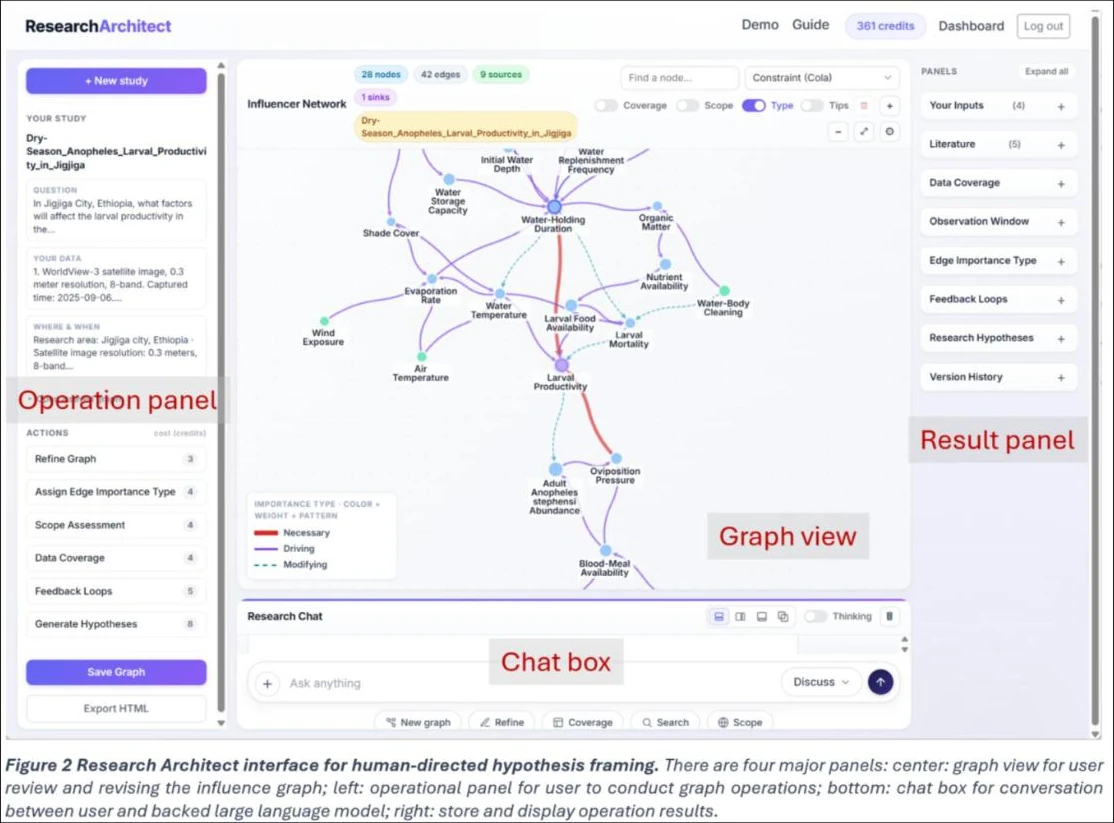
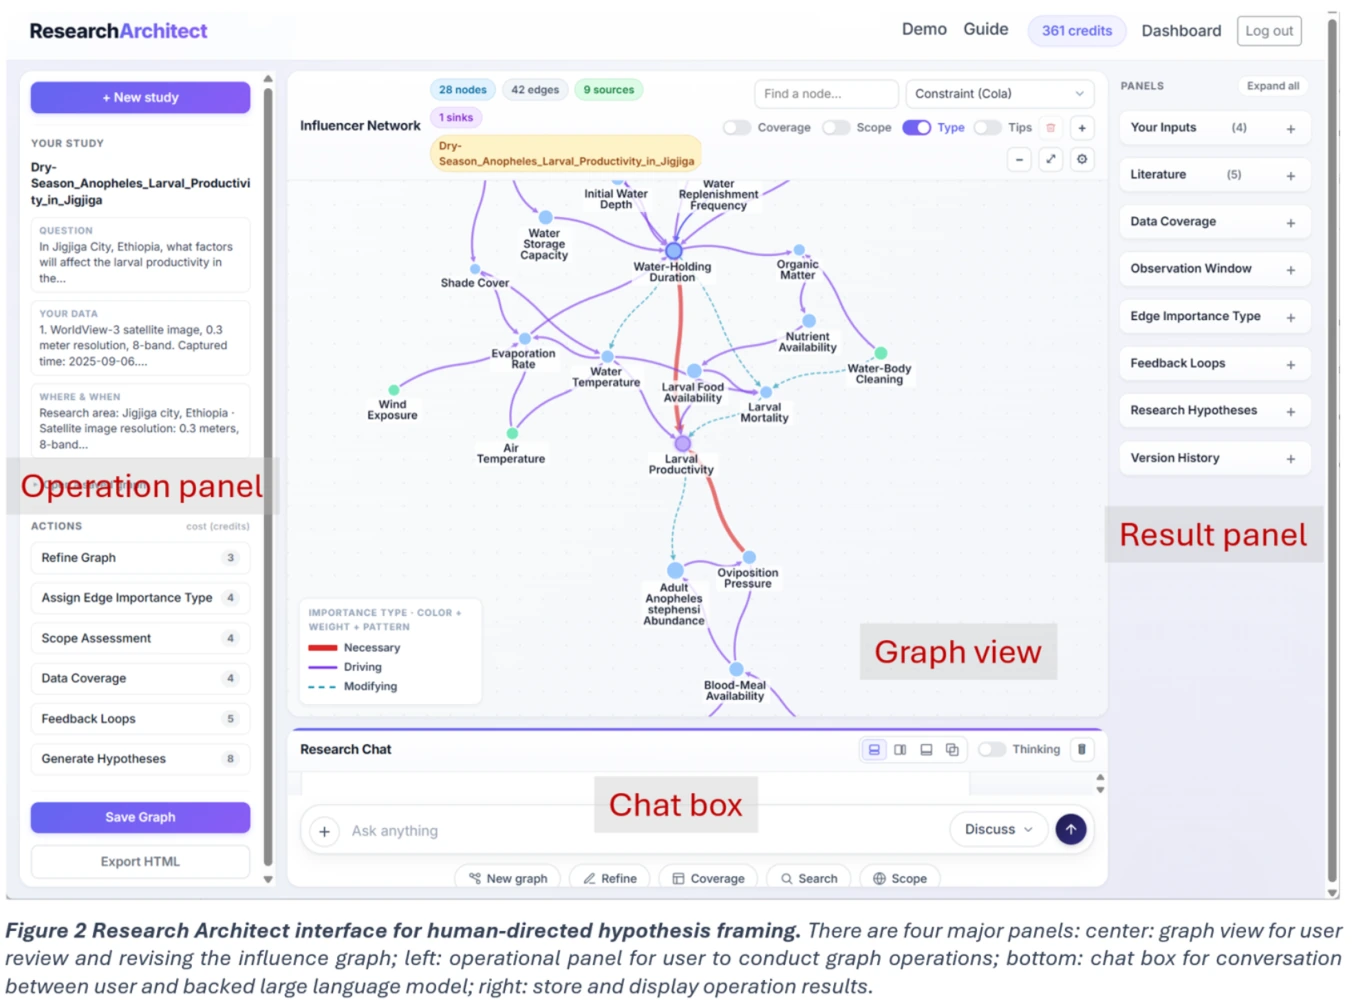
Full-size Research Architect figures, click-to-enlarge images, and two Blog posts
The seven Research Architect figures now match the LinkedIn originals'
full size (1205 to 1642 px wide) instead of 1120 px screenshots.

Clicking an image in any post or project page opens it over the page;
clicking it again shows it at full size, and clicking outside or Esc
closes it. Images that link to videos or pages keep their links.

The Research Architect release (August 10, 2026) and tutorial
(September 14, 2026) LinkedIn articles are added to the Blog in Huan's
wording, linked to the project page.

diff --git a/layouts/_default/baseof.html b/layouts/_default/baseof.html
@@ -30,6 +30,30 @@
       if (dark) root.setAttribute("data-theme", "dark"); else root.removeAttribute("data-theme");
       try { localStorage.setItem("theme", dark ? "dark" : "light"); } catch (e) {}
     });
+    // Click an image in a post to view it large; click it again for full size, click outside or press Esc to close.
+    document.addEventListener("click", function (e) {
+      var img = e.target.closest(".prose img");
+      if (!img) return;
+      var link = img.closest("a");
+      if (link && !/\.(webp|png|jpe?g|gif|svg)$/i.test(link.pathname)) return;
+      e.preventDefault();
+      var box = document.createElement("div"), big = document.createElement("img");
+      box.className = "lightbox";
+      box.setAttribute("role", "dialog");
+      box.setAttribute("aria-label", "Enlarged image");
+      big.src = link ? link.href : (img.currentSrc || img.src);
+      big.alt = img.alt;
+      box.appendChild(big);
+      function close() { box.remove(); document.removeEventListener("keydown", onKey); }
+      function onKey(k) { if (k.key === "Escape") close(); }
+      box.addEventListener("click", function (c) {
+        var scaled = big.naturalWidth > big.clientWidth || big.naturalHeight > big.clientHeight;
+        if (c.target === big && (scaled || box.classList.contains("zoomed"))) box.classList.toggle("zoomed");
+        else close();
+      });
+      document.addEventListener("keydown", onKey);
+      document.body.appendChild(box);
+    });
   </script>
 </body>
 </html>

diff --git a/static/css/site.css b/static/css/site.css
@@ -193,6 +193,10 @@ img { max-width: 100%; height: auto; }
 .prose ul, .prose ol { margin: 0 0 1.1rem; padding-left: 1.4rem; }
 .prose li { margin: .3rem 0; }
 .prose img { display: block; margin: 1.75rem auto; border-radius: 4px; }
+.prose :not(a) > img, .prose a[href$=".webp"] > img, .prose a[href$=".png"] > img, .prose a[href$=".jpg"] > img { cursor: zoom-in; }
+.lightbox { position: fixed; inset: 0; z-index: 200; display: flex; overflow: auto; padding: 2vh 2vw; background: rgba(12, 14, 18, .9); cursor: zoom-out; }
+.lightbox img { margin: auto; max-width: 100%; max-height: 100%; border-radius: 4px; background: #fff; cursor: zoom-in; }
+.lightbox.zoomed img { max-width: none; max-height: none; cursor: zoom-out; }
 .prose figure { margin: 1.75rem 0; }
 .prose figcaption { color: var(--slate); font-size: var(--fs-sm); text-align: center; }
 .prose blockquote { margin: 1.5rem 0; padding: .1rem 0 .1rem 1.1rem; border-left: 3px solid var(--sea); color: var(--slate); }

diff --git a/content/post/2026-08-10-research-architect.md b/content/post/2026-08-10-research-architect.md
@@ -1,0 +1,43 @@
+---
+title: "An AI Copilot for human-AI scientific inquiry: Research Architect"
+date: 2026-08-10
+summary: Our team is pleased to release Research Architect, an AI copilot for human-AI research collaboration, specifically for hypothesis framing.
+tags:
+- Research Architect
+- AI for Science
+- Human-AI Teaming
+---
+
+Our team is pleased to release Research Architect, an AI copilot for human-AI research collaboration, specifically for hypothesis framing. You are warmly invited to try it at [researcharchitect.ai](https://researcharchitect.ai).
+
+When people and AI agents conduct research together, the hardest part is often not performing the analysis, but thinking clearly before the analysis begins. How should the research question be defined? How can existing literature be used systematically? How can expert knowledge be incorporated? How can the main mechanisms be identified? How should the research scope be determined? How can we avoid losing sight of the forest for the trees? And how can we determine what the available data actually cover?
+
+Research Architect helps AI agents avoid proposing hypotheses blindly or becoming overly confident. It also helps them avoid abandoning valuable research directions too early because of incomplete information.
+
+The product uses an influence graph as its central shared medium. AI first identifies and visualizes the factors and relationships relevant to a research question, then assesses the research scope and data coverage. Users can inspect these factors, conduct literature searches, and revise the influence graph using their domain expertise. Based on the improved graph, Research Architect proposes more grounded and testable hypotheses while showing the mechanisms, evidence, and remaining uncertainties associated with each hypothesis.
+
+Since our team introduced the concept of Autonomous GIS, we have believed that AI agents are becoming important executors of scientific research. Human experts serve as a vital interface between the digital and real worlds. They need better tools to identify meaningful research directions, correct the understanding of AI, and allocate research resources more effectively. Research Architect was designed and implemented in response to this need.
+
+The real challenge in building this tool was not software development. It was reviewing our previous projects, studying the research practices of our colleagues, and turning an experience dependent process of research conception into a general workflow that can be expressed, inspected, and revised. To support this goal, we developed a tri-projection framework that moves from the real world to an influence graph, then to research scope, and finally to data. We also distinguish influence relationships as necessary, driving, or modifying.
+
+People familiar with systems science and dialectics may recognize some familiar ideas in Research Architect. We also welcome researchers to share their experience and guide AI reasoning in the same way they would mentor a graduate student.
+
+We will soon share several AI for Science studies and continue exploring how to build new research infrastructure for AI agent swarms. We welcome you to try the platform, exchange ideas, collaborate with us, or discuss investment opportunities.
+
+![The tri-projection connects the real world to an influence graph, a defined research scope, and available data](media/projects/research-architect/tri-projection.webp)
+
+![The Research Architect interface: graph view in the center, operation panel on the left, chat box at the bottom, and result panel on the right](media/projects/research-architect/interface.webp)
+
+![Data coverage projected onto the mosquito influence network](media/projects/research-architect/data-coverage.webp)
+
+![Scope assessment: each factor is in scope, partial, or out of scope for the study period and area](media/projects/research-architect/scope-assessment.webp)
+
+![A literature review attached to the link from water-holding duration to larval productivity](media/projects/research-architect/literature-review.webp)
+
+![Generated hypotheses with their confidence, the measurement needed to unblock each one, and a study design](media/projects/research-architect/hypotheses.webp)
+
+![A foundation model gives a general understanding of the world, while the real world is specific and detailed; AI needs context knowledge to serve the real world](media/projects/research-architect/context-knowledge.webp)
+
+More about this project: [Research Architect](../../project/research-architect/).
+
+*First published on [LinkedIn](https://www.linkedin.com/pulse/ai-copilot-human-ai-scientific-inquiry-research-architect-huan-ning-rc1ke/) on August 10, 2026.*

diff --git a/content/post/2026-09-14-research-architect-tutorial.md b/content/post/2026-09-14-research-architect-tutorial.md
@@ -1,0 +1,33 @@
+---
+title: "Tutorial video for Research Architect, an AI copilot for human-AI teaming research"
+date: 2026-09-14
+summary: Last month, we released Research Architect, an AI copilot for human-AI research collaboration focused on hypothesis framing. Prof. Xiao Huang created a 3-minute video tutorial on how to use it.
+tags:
+- Research Architect
+- AI for Science
+- Human-AI Teaming
+---
+
+Last month, we released Research Architect, an AI copilot for human-AI research collaboration focused on hypothesis framing. It is our first product in the human-AI teaming age, and it provides a shared workspace where human expertise, scientific literature, and AI reasoning come together to develop research plans.
+
+There is no doubt that AI and AI agents have been deeply involved in scientific research. The cross-domain knowledge and outstanding coding skills of the frontier AI models are astonishing. However, before conducting solid research, framing a reasonable hypothesis for the research question requires more context and curated data. Research Architect gives users an interface to combine their contextual knowledge and expertise with AI's broad knowledge and skills.
+
+Researchers can explore relationships, examine their supporting explanations, define the study's scope, and check data coverage. They can also give the AI explicit guidance, preserving important mechanisms even when current data cannot measure them.
+
+One of our team members, Prof. Xiao Huang at Emory University, created a nice video tutorial on how to use Research Architect. You are welcome to watch this 3-minute video and try it on [researcharchitect.ai](https://researcharchitect.ai) for free now.
+
+The video walks through a mosquito ecology example. Knowing that a container holds water is different from knowing how long the water remains. That distinction matters when studying mosquito development. Research Architect makes the missing measurement visible, connects literature to the relevant factor, and helps turn a candidate explanation into a study design involving repeated observations.
+
+Research Architect is our first step in re-engineering scientific inquiry infrastructure for the AI era. We will continue developing Fractal Research Graph and Computational Worldspace to connect research knowledge and support shared modeling:
+
+**One Interface, Anyone. One Graph, Anything. One Model, Anywhere.**
+
+Watch the introduction and try bringing your own research question: [researcharchitect.ai](https://researcharchitect.ai/)
+
+[![Video: Research Architect tutorial, "Better science starts with a better question"](media/projects/research-architect/video-tutorial.webp)](https://www.linkedin.com/pulse/tutorial-video-research-architect-ai-copilot-human-ai-huan-ning-gz2ve/)
+
+*Research Architect tutorial (3 minutes). Click to watch on LinkedIn.*
+
+More about this project: [Research Architect](../../project/research-architect/).
+
+*First published on [LinkedIn](https://www.linkedin.com/pulse/tutorial-video-research-architect-ai-copilot-human-ai-huan-ning-gz2ve/) on September 14, 2026.*
